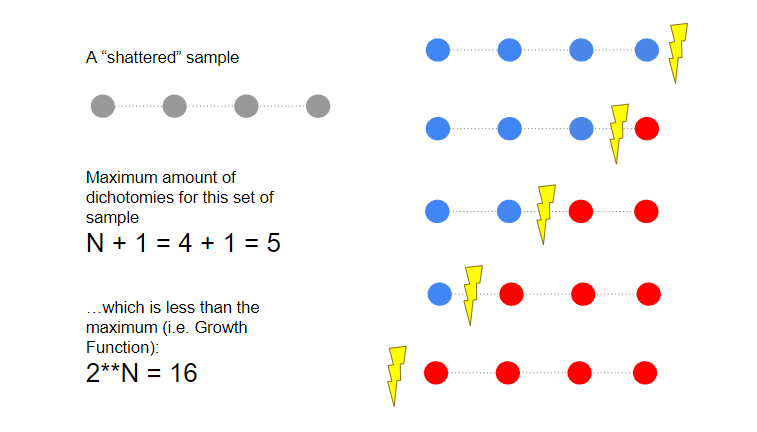
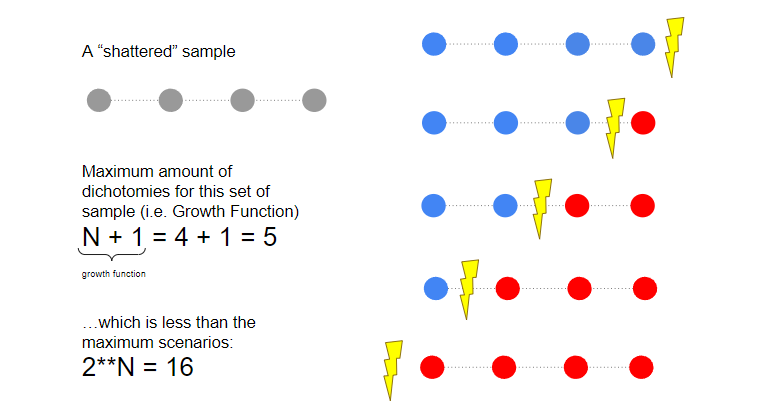
reviewing lecture 05

diff --git a/caltech_ml_course/lecture05_training_and_test/README.md b/caltech_ml_course/lecture05_training_and_test/README.md
@@ -38,7 +38,7 @@ Instead of considering the area, is possible to consider only the elements of sa
 <img src="img/m-as-2-n.PNG" width="500"/>
 <div>
 
-Each scenario above have an associated hypothesis, and it could be used as a substitute for **M** applied in Hoeffding's Inequality. Although **2^N** is still a large number, it tends to be smalled than **M** iterations used to produce the final hypothesis for any model. The maximum number of scenarios used to substitute **M** will be called the **Growth Function**.
+Each scenario above have an associated hypothesis, and it could be used as a substitute for **M** applied in Hoeffding's Inequality. Although **2^N** is still a large number, it tends to be smalled than **M** iterations used to produce the final hypothesis for any model. What we will try to do next will be to decrease even more **2^N**.
 
 
 ## Dichotomy
@@ -52,7 +52,9 @@ In each interaction a new hypothesis will be formulated. This new hypothesis wil
 In the cenario described, while the hypothesis change, the **dichotomy** may stay the same.
 
 **Why are we learning this:**
-contrary to the hypothesis, dichotomies are **finite**. While a problem may have infinite hypothesis (since different mathematical domains are generated every time), the dichotomy will be capped by the sample size (2^N). In addition, depending on the set of sample, it is possible to achieve a smaller dichotomy quantity, which is even better for us.
+contrary to the hypothesis, dichotomies are **finite**. While a problem may have infinite hypothesis (since different mathematical domains are generated every time), the dichotomy will be capped by the sample size (2^N). In addition, depending on the set of sample, it is possible to achieve a smaller dichotomy quantity, which is even better for us. 
+
+ **Growth Function** is a set of samples organized in a specifically layout (i.e. "shattered") that achieve the most dichotomies for a problem.
 
 By definition:
 > *"The growth function counts the most dichotomies on any N points"*
@@ -69,12 +71,20 @@ The examples on the lecture illustrates that specific arrangements of samples al
 ## Break Point
 
 **Definition:** 
-maxium sample size that allows less dichotomies that the **Growth Function**.
+number of sample that is no longer possible to achieve all possible dichotomies.
 
+<div>
+<img src="img/breakpoint.PNG" width="500"/>
+<div>
 
 In practice, **Break Point** (or BP in short) will be used as a measure of the complexity of the learning process. A learning process with BP = 2 will be a simpler one dimensional problem, where a learning process with BP = 4 will be a more complex two dimensional problem. 
 
 If a hypothesis have a finite break point, than a new **M** is possible. That modified **M** is now a polynommial and now the Hoeffding Inequation results in a smaller probability (**not sure why polinomial M is better though**).
 
+## Conclusion
+
+<div>
+<img src="img/in-a-nutshell.PNG" width="500"/>
+<div>
 
 Video: https://www.youtube.com/watch?v=SEYAnnLazMU

diff --git a/caltech_ml_course/lecture06_theory_of_generalization/README.md b/caltech_ml_course/lecture06_theory_of_generalization/README.md
@@ -1,0 +1,6 @@
+# Lecture 06 - Theory of Generalization
+
+## Objective
+?
+
+Video: https://www.youtube.com/watch?v=SEYAnnLazMU
